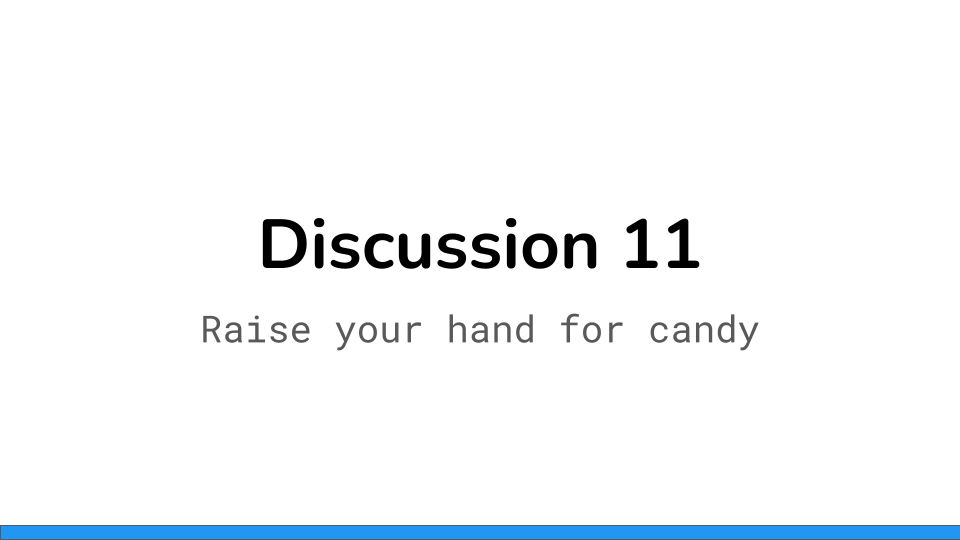
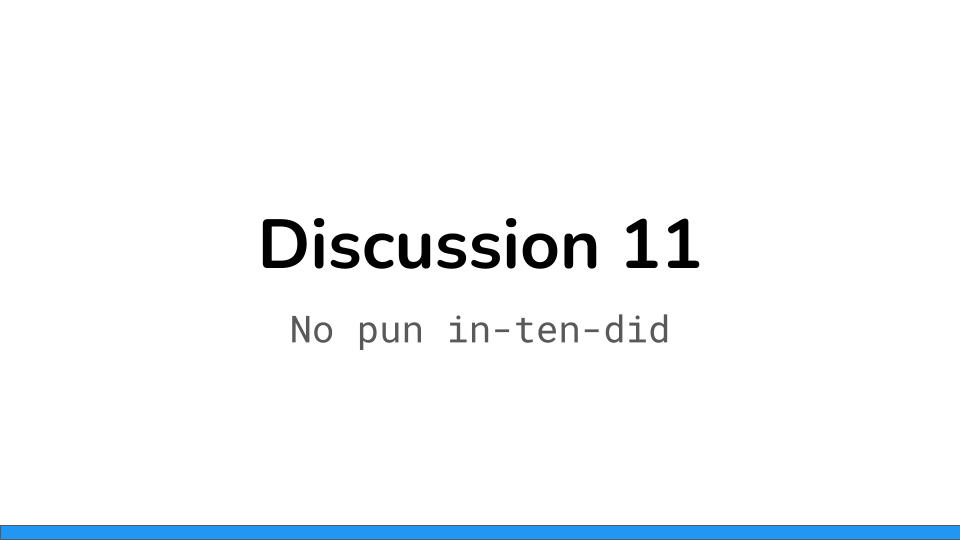
fixed numbering discrepancies between data 8's FA26 discussions and my discussion slides

Changed region(s): [[0.4688, 0.5926, 0.8125, 0.6519], [0.1875, 0.5926, 0.4375, 0.6519]]

diff --git a/students.html b/students.html
@@ -169,31 +169,39 @@
         </li>
 
         <li class="project-card" data-card-tone="dark" data-cta="Open Slides">
-          <img class="project-card-bg" src="Assets/discussion10-cover.png" alt="Discussion 10 preview" />
+          <img class="project-card-bg" src="Assets/discussion11-cover.png" alt="Discussion 11 preview" />
           <div class="project-card-content">
             <h3 class="project-card-title">
               <a href="https://docs.google.com/presentation/d/1SsZBe0d1dpbyiT6bKHxK1G6Bk_vNbAJyaLztR90GBdU/edit?usp=sharing" class="project-card-link"
-                target="_blank" rel="noopener noreferrer">Discussion 10</a>
+                target="_blank" rel="noopener noreferrer">Discussion 11</a>
             </h3>
-            <p class="project-card-desc">Discussion 10 — Standard units, the correlation coefficient r, &amp; linear regression.</p>
+            <p class="project-card-desc">Discussion 11 — Standard units, the correlation coefficient r, &amp; linear regression.</p>
           </div>
         </li>
 
         <li class="project-card" data-card-tone="dark" data-cta="Open Slides">
-          <img class="project-card-bg" src="Assets/discussion11-cover.png" alt="Discussion 11 preview" />
+          <img class="project-card-bg" src="Assets/discussion12-cover.png" alt="Discussion 12 preview" />
           <div class="project-card-content">
             <h3 class="project-card-title">
               <a href="https://docs.google.com/presentation/d/1EQe5vhJnSMJiR-6pO5QCZaTBVqmiW2E5kHi-KGpLSaY/edit?usp=sharing" class="project-card-link"
-                target="_blank" rel="noopener noreferrer">Discussion 11</a>
+                target="_blank" rel="noopener noreferrer">Discussion 12</a>
             </h3>
-            <p class="project-card-desc">Discussion 11 — Residuals &amp; residual plots, heteroskedasticity, &amp; confidence intervals for the true slope.</p>
+            <p class="project-card-desc">Discussion 12 — Residuals &amp; residual plots, heteroskedasticity, &amp; confidence intervals for the true slope.</p>
           </div>
         </li>
 
         <li class="project-card project-card--soon">
           <div class="project-card-content">
             <span class="soon-badge">Coming soon</span>
-            <h3 class="project-card-title">Discussion 12</h3>
+            <h3 class="project-card-title">Discussion 13</h3>
+            <p class="project-card-desc">Slides will be posted after section.</p>
+          </div>
+        </li>
+
+        <li class="project-card project-card--soon">
+          <div class="project-card-content">
+            <span class="soon-badge">Coming soon</span>
+            <h3 class="project-card-title">Discussion 14</h3>
             <p class="project-card-desc">Slides will be posted after section.</p>
           </div>
         </li>
